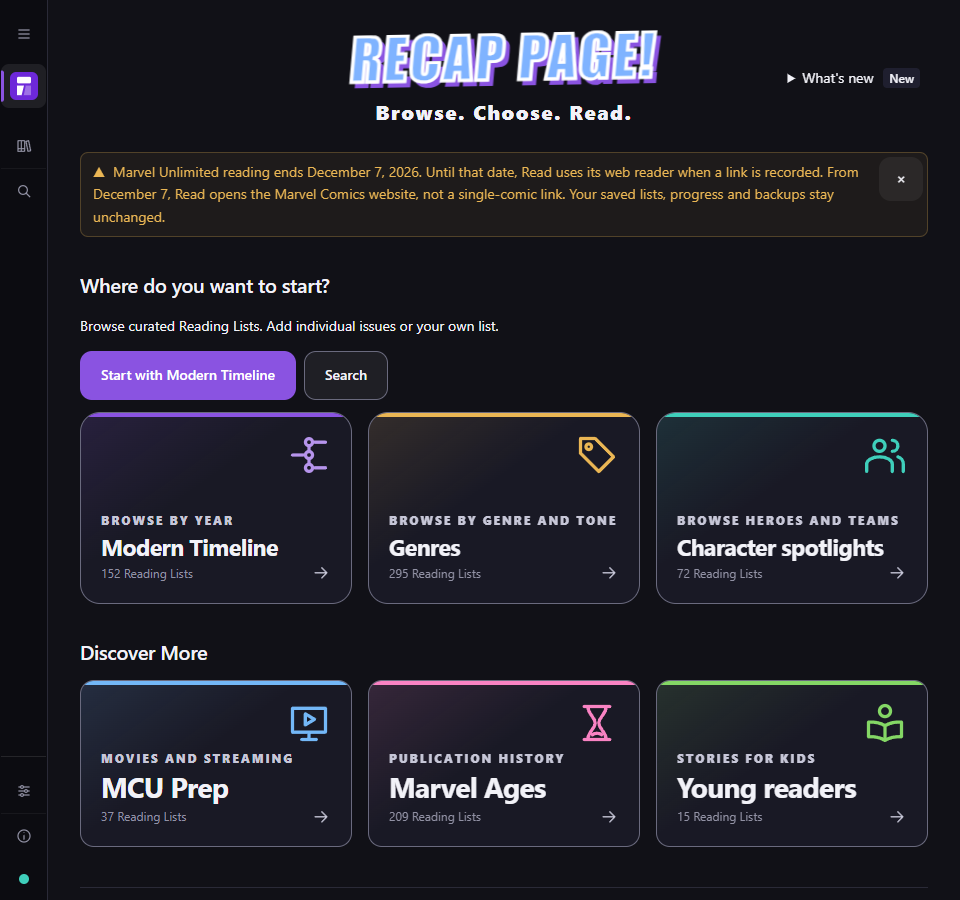
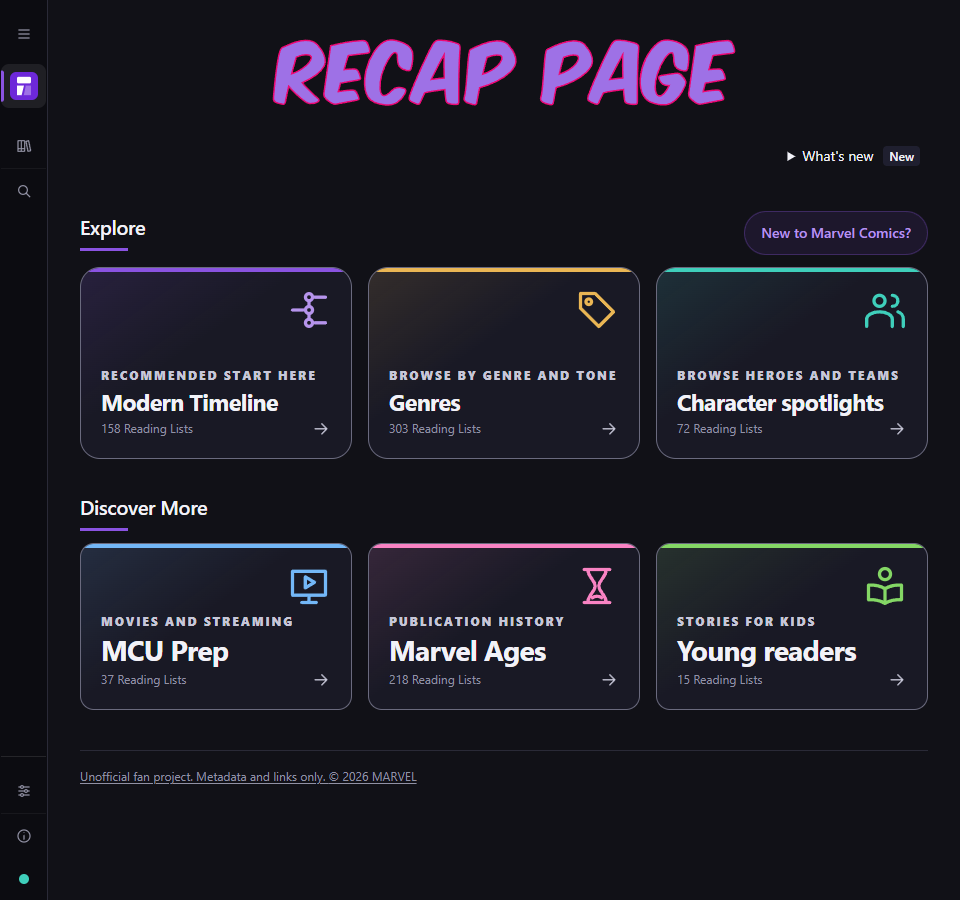
Show the shipping app on the project home and link the App Store
The project home and README still said iPhone and iPad was in App Store
review, showed a Home with buttons the app no longer has, and described an
Android reading view that the simplified Read page replaced. The App Store
listing is live and was confirmed to resolve to Recap Page before linking.

Both desktop screenshots and both Android previews are recaptured from the
tree that ships tonight, with the brand accents, Search B and spelling
suggestions, and their provenance is updated from the capture manifest.
The feature copy now names comic search with spelling suggestions and the
store apps' own-account cloud backup, and the Android guide describes the
current Home. The page word budget rises from 810 to 830, as it did for the
App Store review line, because one more store card and two features are
new; the added copy was cut to 20 net words first.

diff --git a/pages/index.html b/pages/index.html
@@ -47,7 +47,7 @@
           <p>
             Our mission is to make Marvel reading orders easier to follow, so you can keep your place and enjoy the story.
           </p>
-          <p class="platform-status">Available for Windows and Android. In App Store review for iPhone and iPad.</p>
+          <p class="platform-status">Available for Windows, Android, iPhone, and iPad.</p>
           <p class="action-row">
             <a class="button" href="#getting-started">Get started</a>
             <a href="#android">See the Android app</a>
@@ -100,8 +100,8 @@
               </li>
               <li>
                 <strong>Move between devices.</strong>
-                Desktop and Android save separately. Move progress with a JSON backup.
-                Restoring replaces the app's saved data.
+                Desktop and Android save separately. Move progress with a JSON or OneDrive
+                backup. Restoring replaces the app's saved data.
               </li>
             </ul>
           </div>
@@ -125,7 +125,7 @@
                 width="1080"
                 height="1920"
                 loading="lazy"
-                alt="Android reading view with a fictional next issue, a Done button, 3 of 8 read, no recorded Unlimited date, and position 4 of 8, above the bottom navigation"
+                alt="Android reading view with a fictional next issue, Lantern Harbor #4, a Done button, and Reading List options, above the bottom navigation"
               />
               <figcaption>
                 <strong>Your next comic.</strong>
@@ -143,7 +143,7 @@
       <section id="features" class="section shell" aria-labelledby="features-title">
         <div class="section-heading">
           <h2 id="features-title">Read your way</h2>
-          <p>On desktop and Android.</p>
+          <p>In every app.</p>
         </div>
         <div class="feature-grid">
           <article>
@@ -163,8 +163,8 @@
           <article>
             <h3>Make your own lists</h3>
             <p>
-              Search issues, series, and creators. Add comics by hand, write notes,
-              and hide descriptions.
+              Search Reading Lists, series, creators, and comics, with spelling suggestions.
+              Add comics by hand, write notes, and hide descriptions.
             </p>
           </article>
           <article>
@@ -177,8 +177,9 @@
           <article>
             <h3>Back up or share</h3>
             <p>
-              Save JSON backups or preview Markdown checklists. Share an order without notes,
-              reading history, or availability choices.
+              Save JSON backups or preview Markdown checklists. Store apps can back up to
+              your own OneDrive, or iCloud Drive on iPhone and iPad.
+              Share an order without notes, reading history, or availability choices.
             </p>
           </article>
         </div>
@@ -249,7 +250,7 @@
                 width="960"
                 height="900"
                 loading="lazy"
-                alt="Home with the Start with Modern Timeline and Search buttons, and the Modern Timeline, Genres, Character spotlights, MCU Prep, Marvel Ages, and Young readers categories"
+                alt="Home with the Explore categories Modern Timeline, recommended as the place to start, Genres, and Character spotlights, a New to Marvel Comics? link, and Discover More with MCU Prep, Marvel Ages, and Young readers"
               />
               <figcaption>
                 Choose where to start.
@@ -310,16 +311,10 @@
           </article>
           <article class="card route-card">
             <h3>iPhone and iPad</h3>
-            <!--
-              App Store status (Issue #1047). Set the App Store link here, and only here, once the
-              owner confirms the listing is live and supplies the link. Never guess it. The switch:
-              replace the paragraph below with a short line of copy and an "Open the App Store"
-              link with class="button", styled like the Google Play button on the Android card,
-              then change the overview's platform-status line to list iPhone and iPad as
-              available. test/pages-home.test.js and the pages-home-navigation browser check pin
-              both lines.
-            -->
-            <p>In App Store review. Not available yet.</p>
+            <p>Install and update through the App Store.</p>
+            <a class="button" href="https://apps.apple.com/us/app/recap-page/id6828494712">
+              Open the App Store
+            </a>
           </article>
         </div>
         <aside class="origin-warning" aria-labelledby="origin-warning-title">

diff --git a/test/pages-home.test.js b/test/pages-home.test.js
@@ -68,6 +68,7 @@ const releaseHtml = renderSitePage(RELEASE_PAGE, releaseContent);
 const APP_ORIGIN = 'http://127.0.0.1:8787/';
 const REPOSITORY = 'https://github.com/raymond-nassar/recap-page';
 const PLAY_LISTING = 'https://play.google.com/store/apps/details?id=io.github.raymondnassar.recappage';
+const APP_STORE_LISTING = 'https://apps.apple.com/us/app/recap-page/id6828494712';
 const QUESTION_FORM_URL = `${REPOSITORY}/issues/new?template=project-question.yml`;
 const QUESTION_CONTEXT_LINKS = [
   `${REPOSITORY}#readme`,
@@ -110,6 +111,7 @@ const EXPECTED_HREFS = [
   PLAY_LISTING,
   `${REPOSITORY}/releases/latest/download/marvel-reading-tracker-windows.zip`,
   `${REPOSITORY}/blob/main/docs/RUNNING.md`,
+  APP_STORE_LISTING,
   APP_ORIGIN,
   `${REPOSITORY}/blob/main/docs/RUNNING.md#troubleshooting`,
   './support.html',
@@ -222,7 +224,7 @@ test('the project home sends Android readers to Google Play and keeps the previe
   const overview = section('overview');
   assert.match(
     overview,
-    /<p class="lede">\s*Find Marvel reading lists and keep track of what you've read\.\s*<\/p>\s*<p>\s*Our mission is to make Marvel reading orders easier to follow, so you can keep your place and enjoy the story\.\s*<\/p>\s*<p class="platform-status">Available for Windows and Android\. In App Store review for iPhone and iPad\.<\/p>\s*<p class="action-row">/,
+    /<p class="lede">\s*Find Marvel reading lists and keep track of what you've read\.\s*<\/p>\s*<p>\s*Our mission is to make Marvel reading orders easier to follow, so you can keep your place and enjoy the story\.\s*<\/p>\s*<p class="platform-status">Available for Windows, Android, iPhone, and iPad\.<\/p>\s*<p class="action-row">/,
   );
   assert.deepEqual(links(overview), [
     { href: '#getting-started', button: true, name: 'Get started' },
@@ -253,15 +255,18 @@ test('the project home sends Android readers to Google Play and keeps the previe
   );
 
   const features = section('features');
-  assert.match(features, /<p>On desktop and Android\.<\/p>/);
+  assert.match(features, /<p>In every app\.<\/p>/);
   for (const feature of [
     'Reading Paths', 'Modern Timeline', 'Character spotlights', 'MCU Prep',
     'Defer for later', 'notes', 'descriptions', 'Marvel Unlimited record',
     'historical record, not availability in Marvel Comics', 'JSON backups', 'Markdown checklists', 'Share an order',
   ]) assert.ok(features.includes(feature), `missing feature explanation: ${feature}`);
+  const featureCopy = plain(features);
+  assert.match(featureCopy, /Search Reading Lists, series, creators, and comics, with spelling suggestions/);
+  assert.match(featureCopy, /Store apps can back up to your own OneDrive, or iCloud Drive on iPhone and iPad/);
 });
 
-test('Get started offers both app stores and says iPhone and iPad is in App Store review', () => {
+test('Get started offers all three app stores', () => {
   const start = section('getting-started');
   const cards = [...start.matchAll(/<article class="card route-card">([\s\S]*?)<\/article>/g)]
     .map((match) => ({
@@ -294,7 +299,11 @@ test('Get started offers both app stores and says iPhone and iPad is in App Stor
       copy: 'Requires Node.js 20 or newer.',
       links: [{ href: `${REPOSITORY}/blob/main/docs/RUNNING.md`, button: false, name: 'Source setup guide' }],
     },
-    { name: 'iPhone and iPad', copy: 'In App Store review. Not available yet.', links: [] },
+    {
+      name: 'iPhone and iPad',
+      copy: 'Install and update through the App Store.',
+      links: [{ href: APP_STORE_LISTING, button: true, name: 'Open the App Store' }],
+    },
   ]);
   assert.match(
     plain(start.slice(start.indexOf('<p class="platform-note">'))),
@@ -456,7 +465,7 @@ test('the page exposes every task through semantic no-script structure', () => {
 test('the project home keeps its copy concise and its navigation focused', () => {
   const visibleCopy = html.slice(html.indexOf('<body>')).replace(/<[^>]+>/g, ' ');
   const words = visibleCopy.match(/\S+/g) ?? [];
-  assert.ok(words.length <= 810, `${words.length} words exceed the 810-word feature-tour budget`);
+  assert.ok(words.length <= 830, `${words.length} words exceed the 830-word feature-tour budget`);
   const navigation = html.match(/<nav class="section-nav"[^>]*>[\s\S]*?<\/nav>/)?.[0] ?? '';
   assert.deepEqual(links(navigation).map(({ href }) => href), [
     '#android', '#features', '#getting-started', '#documentation', '#feedback',

diff --git a/test/workflow-introduction.test.js b/test/workflow-introduction.test.js
@@ -45,7 +45,12 @@ test('the project home and README distinguish shared progress and manual reading
   }
   for (const source of [page, readme]) {
     const copy = text(source);
-    assert.match(copy, /In App Store review for iPhone and iPad/);
+    assert.match(copy, /iPhone,? and iPad/);
+    assert.doesNotMatch(copy, /App Store review/);
+    assert.ok(
+      source.includes('https://apps.apple.com/us/app/recap-page/id6828494712'),
+      'must link the App Store listing',
+    );
     assert.ok(
       source.includes('https://play.google.com/store/apps/details?id=io.github.raymondnassar.recappage'),
       'must link the Google Play listing',

diff --git a/README.md b/README.md
@@ -9,7 +9,8 @@ No automatic device sync or offline comic reading.
 Recap Page for Android is on
 [Google Play](https://play.google.com/store/apps/details?id=io.github.raymondnassar.recappage).
 No computer needed. [Android's Read](docs/ANDROID.md) uses an installed browser, not the
-Marvel Unlimited app. In App Store review for iPhone and iPad.
+Marvel Unlimited app. Recap Page for iPhone and iPad is on the
+[App Store](https://apps.apple.com/us/app/recap-page/id6828494712).
 
 Marvel Unlimited reading ends December 7, 2026. Until that date, Read uses its web reader when a link
 is recorded. From December 7, Read opens the Marvel Comics website, not a single-comic link.
@@ -32,8 +33,9 @@ An example with made-up progress:
 An issue marked read stays read across lists. Each list keeps its own order.
 The screenshots show a different list, with cover art off.
 
-![Recap Page Home with the Start with Modern Timeline and Search buttons and six reading-list
-categories from Modern Timeline to Young readers, with cover art off](docs/screenshots/home-960.png)
+![Recap Page Home with Modern Timeline recommended as the place to start, a New to Marvel Comics?
+link, and six reading-list categories from Modern Timeline to Young readers, with cover art
+off](docs/screenshots/home-960.png)
 
 ![Avengers Disassembled showing the next issue, Read and Done buttons, and reading progress,
 with cover art off](docs/screenshots/avengers-disassembled-reading-960.png)

diff --git a/.github/skills/prepare-release/SKILL.md b/.github/skills/prepare-release/SKILL.md
@@ -27,7 +27,7 @@ Do not turn these routes into one universal command sequence:
 
 | Platform or channel | Authoritative route |
 |---|---|
-| Android build allocation or candidate | [Android release contract](../../../docs/RELEASING.md#android-allocation-and-exact-artifact-contract) and [Android candidate procedure](../../../docs/ANDROID.md#protected-app-bundle-candidates). `docs/RELEASING.md:35-60`; `docs/ANDROID.md:239-246` |
+| Android build allocation or candidate | [Android release contract](../../../docs/RELEASING.md#android-allocation-and-exact-artifact-contract) and [Android candidate procedure](../../../docs/ANDROID.md#protected-app-bundle-candidates). `docs/RELEASING.md:35-60`; `docs/ANDROID.md:241-248` |
 | Google Play testing or promotion | [Protected Google Play publication](../../../docs/GOOGLE_PLAY_PUBLISHING.md). `docs/RELEASING.md:206-216`; `docs/GOOGLE_PLAY_PUBLISHING.md:1-20` `docs/GOOGLE_PLAY_PUBLISHING.md:256-295` |
 | iOS build allocation, TestFlight export, or upload | [iOS release contract](../../../docs/RELEASING.md#ios-allocation-and-exact-artifact-contract) and [TestFlight procedure](../../../docs/IOS.md#signing-and-internal-testflight). `docs/RELEASING.md:258-285`; `docs/IOS.md:461-470` `docs/IOS.md:502-534` |
 | Windows portable or MSIX proof | [Windows package proof](../../../docs/MICROSOFT_STORE.md#build-controlled-proof-packages). `docs/MICROSOFT_STORE.md:245-304` |

diff --git a/docs/ANDROID.md b/docs/ANDROID.md
@@ -37,8 +37,10 @@ Windows **RECAP PAGE!** masthead scaled down to a centered wordmark, at 6.5% of 
 side and without the tagline. Android has none of the masthead's display fonts, so the wordmark is
 drawn in Android's own sans-serif, which is Roboto on stock Android.
 
-Home offers **Start with Modern Timeline** and **Search**, without a Setup recommendation.
-The existing Setup guide remains on Modern Timeline and the other browse pages.
+Home's **Explore** group marks **Modern Timeline** as the recommended place to start, beside
+**Genres** and **Character spotlights**, with a **New to Marvel Comics?** link below and a
+**Discover More** group for MCU Prep, Marvel Ages and Young readers. Search is in the navigation
+bar. The existing Setup guide remains on Modern Timeline and the other browse pages.
 Its short introduction keeps the guide optional; **About this starting point** opens the full
 historical explanation.
 
